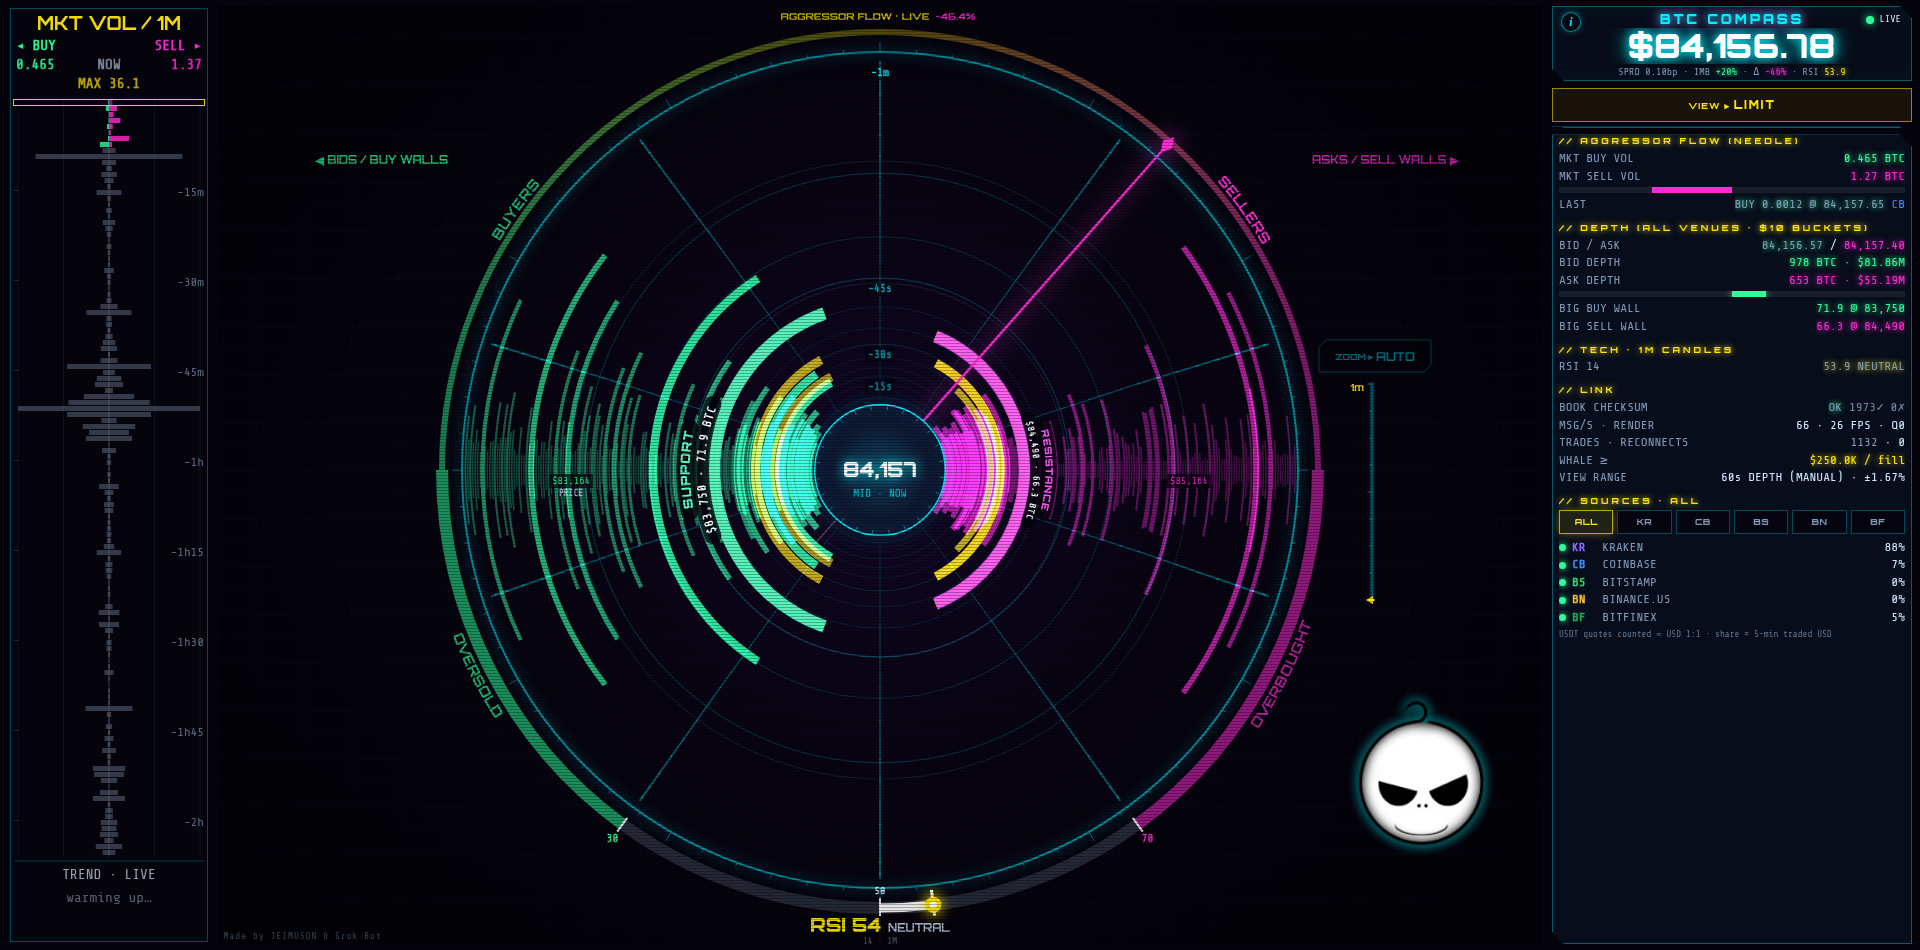
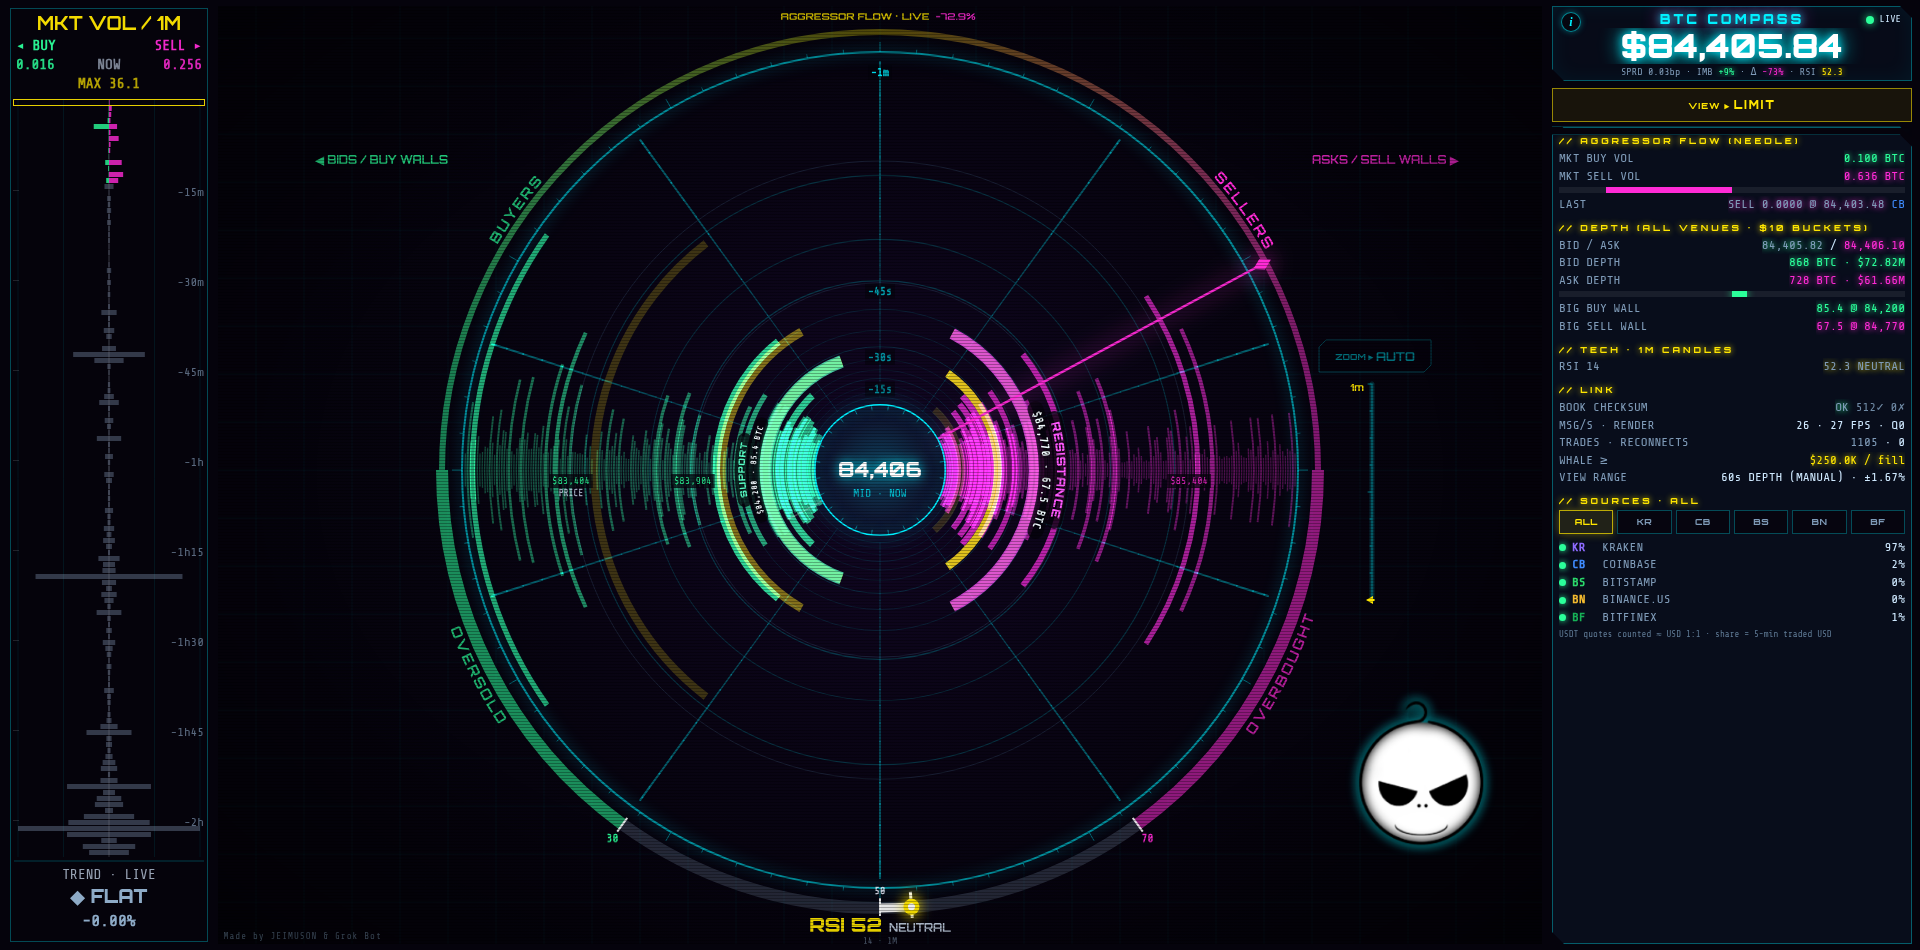
LIMIT: wall arc span scales vs shared history reference so eaten walls taper; labels scale/fade on short arcs (build 20261002-1635)

diff --git a/index.html b/index.html
@@ -3,7 +3,7 @@
 <head>
 <meta charset="utf-8">
 <meta http-equiv="Cache-Control" content="no-cache, no-store, must-revalidate"><meta http-equiv="Pragma" content="no-cache"><meta http-equiv="Expires" content="0">
-<script>window.OFC_BUILD='20261002-1552';(function(){try{if(!/^https?:/.test(location.protocol))return;fetch(location.pathname+'?_='+Date.now(),{cache:'no-store'}).then(r=>r.text()).then(t=>{const m=t.match(/OFC_BUILD='([^']+)'/);if(m&&m[1]!==window.OFC_BUILD&&sessionStorage.getItem('ofcB')!==m[1]){sessionStorage.setItem('ofcB',m[1]);location.replace(location.pathname+'?v='+m[1]+location.hash);}}).catch(()=>{});}catch(e){}})();</script>
+<script>window.OFC_BUILD='20261002-1635';(function(){try{if(!/^https?:/.test(location.protocol))return;fetch(location.pathname+'?_='+Date.now(),{cache:'no-store'}).then(r=>r.text()).then(t=>{const m=t.match(/OFC_BUILD='([^']+)'/);if(m&&m[1]!==window.OFC_BUILD&&sessionStorage.getItem('ofcB')!==m[1]){sessionStorage.setItem('ofcB',m[1]);location.replace(location.pathname+'?v='+m[1]+location.hash);}}).catch(()=>{});}catch(e){}})();</script>
 <meta name="viewport" content="width=device-width,initial-scale=1,viewport-fit=cover,user-scalable=no">
 <meta name="theme-color" content="#05030c">
 <meta name="color-scheme" content="dark">
@@ -290,6 +290,7 @@ setInterval(()=>{computeIndicators();const cut=Date.now()-800*60000;for(const k 
 // ---------------- state ----------------
 let pricePrec=5, qtyPrec=8;
 const book={bids:new Map(), asks:new Map(), ready:false};
+let EAT=null;   // test hook (simEat)
 let sortedB=[], sortedA=[];                 // COMBINED [[p,q]] bids desc, asks asc (all venues or the selected one)
 let kB=[], kA=[];                           // Kraken's own book (for its CRC32 checksum)
 let mid=0, dispMid=0, bestBid=0, bestAsk=0;
@@ -534,6 +535,7 @@ function combine(){
     for(const [p,q] of B.a){if(p>hi)continue;if(p>M&&p<ra)ra=p;const k=Math.ceil(p/BK)*BK;am.set(k,(am.get(k)||0)+q);}}
   // venues/USDT books can overlap slightly; buckets on the wrong side of the volume-weighted mid are dropped
   sortedB=[...bm.entries()].filter(x=>x[0]<M).sort((x,y)=>y[0]-x[0]);sortedA=[...am.entries()].filter(x=>x[0]>M).sort((x,y)=>x[0]-y[0]);
+  if(EAT&&sortedB.length>12){const u=Math.min(1,(Date.now()-EAT.t0)/EAT.ms);if(!EAT.px){let bd=1e9;for(const x of sortedB){const d=Math.abs(rOf(dispMid-x[0])-0.55*RMAX);if(d<bd){bd=d;EAT.px=x[0];}}EAT.q0=2*Math.max(...sortedB.map(x=>x[1]),...sortedA.map(x=>x[1]));}const e=sortedB.find(x=>x[0]===EAT.px);if(e)e[1]=EAT.q0*(1-0.9*u);}   // test hook: a bid wall being eaten
   if(sortedB.length>200)sortedB.length=200;if(sortedA.length>200)sortedA.length=200;
   if(!sortedB.length||!sortedA.length||!rb||ra===Infinity){BREADY=false;return;}
   bestBid=rb;bestAsk=ra;mid=simPx(one?(rb+ra)/2:M);if(!dispMid)dispMid=mid;BREADY=true;
@@ -905,11 +907,19 @@ function drawPriceRings(){
 
 // level arc: radius by price distance, angular half-width by size
 const MAXSPAN=1.2; // radians each way from the horizontal axis
-function levelSpan(q,maxq){return 0.03+MAXSPAN*Math.pow(q/maxq,0.55);}
+function levelSpan(q,maxq){return 0.03+MAXSPAN*Math.pow(Math.min(1,q/maxq),0.55);}
+// LIMIT span reference: biggest level across the visible history window (+ live book). Shared by every snapshot copy, so a wall
+// that is being eaten draws a shorter arc in each newer copy (tapers down the tunnel). Rises instantly, eases down over ~3 s.
+let REFQ=0,REFT=0;
+function updRefQ(now){let m=0;for(const h of history){const age=(now-h.t)/1000;if(age<=LWIN+1&&h.maxq>m)m=h.maxq;}
+  if(BREADY&&sortedB.length&&sortedA.length)for(const L of [sortedB,sortedA])for(const x of L)if(x[1]>m)m=x[1];
+  const dt=REFT?Math.min(0.2,(now-REFT)/1000):0;REFT=now;
+  REFQ=!REFQ||m>=REFQ?m:REFQ+(m-REFQ)*(1-Math.exp(-dt/3));}
 
 // LIMIT fade: newest (at the vanishing point) dim-but-visible, brighter as they rush toward you, fade out as they exit past the ring
 const limFade=(age,dz)=>Math.min(1,0.3+age/Math.min(5,LWIN/8))*(0.3+0.7*(1-dz/HIST_SEC))*Math.max(0,Math.min(1,(LWIN-age)/(LWIN*0.12)));
 function drawHistory(now){
+  updRefQ(now);
   ctx.save();ctx.beginPath();ctx.rect(0,0,W,H);ctx.arc(CX,CY,R0*1.02,0,Math.PI*2,true);ctx.clip();   // keep the hub readout clean over the newest datactx.globalCompositeOperation='lighter';
   const stepH=Q===2?1:Q===1?2:3;
   for(let hi=history.length-1-((history.length-1)%stepH);hi>=0;hi-=stepH){const h=history[hi];if(!h)continue;
@@ -918,7 +928,7 @@ function drawHistory(now){
     const sideDraw=(lv,side,c)=>{
       for(const [px,q] of lv){
         const r=rOf(px-dispMid)*p.s; if(r>RMAX*1.02*p.s)continue;
-        const sp=levelSpan(q,h.maxq), a0=baseAng(side);
+        const sp=levelSpan(q,REFQ||h.maxq), a0=baseAng(side);
         ctx.strokeStyle=rgba(c,0.05+0.32*fade*Math.pow(q/h.maxq,0.5));
         ctx.lineWidth=Math.max(0.6,(1+5*Math.pow(q/h.maxq,0.6))*p.s);
         ctx.beginPath();ctx.arc(p.x,p.y,r,a0-sp,a0+sp);ctx.stroke();
@@ -941,17 +951,18 @@ function drawKeyWalls(now,maxq){   // SUPPORT (bid) / RESISTANCE (ask): highligh
     const vis=lv.filter(([px])=>rOf(px-dispMid)<=RMAX*1.0),sig=sigWalls(vis,maxq);
     let key=null,ks=-1;for(const w of sig){const sc=w[1]*(1-0.45*Math.min(1,Math.abs(w[0]-dispMid)/span));if(sc>ks){ks=sc;key=w;}}
     KEYW[side]=key?{px:key[0],q:key[1]}:null;if(!key)continue;
-    const [px,q]=key,rel=q/maxq,r=rOf(px-dispMid),sp=levelSpan(q,maxq),a0=baseAng(side),lw=1.2+9*Math.pow(rel,0.6);
+    const [px,q]=key,rel=q/maxq,r=rOf(px-dispMid),sp=levelSpan(q,REFQ||maxq),a0=baseAng(side),lw=1.2+9*Math.pow(rel,0.6);
     const pl=0.85+0.15*Math.sin(now/650),cc=[Math.min(255,c[0]+45),Math.min(255,c[1]+45),Math.min(255,c[2]+45)];
     ctx.save();ctx.globalCompositeOperation='source-over';ctx.strokeStyle=rgba(cc,(0.95*pl).toFixed(3));ctx.lineWidth=lw+2.5;ctx.shadowColor=rgba(c,1);ctx.shadowBlur=Q>0?(LOW?16:28):0;
     ctx.beginPath();ctx.arc(CX,CY,r,a0-sp,a0+sp);ctx.stroke();ctx.restore();
     // text: centred on the angular midpoint of its own wall arc (a0), following the curve, upright (outward-facing); font shrinks with the arc, fades when too small
     const base1=WIDE?Math.round(Math.max(12,Math.min(16,RMAX/27))):10, sc=Math.max(0.62,Math.min(1,(r-R0)/(RMAX*0.28)));
-    const fs1=Math.max(7,Math.round(base1*sc)), fs2=Math.max(7,fs1-1), R1=r+lw/2+4, R2=R1+fs2+3;
-    const L1=`${PF(px)} · ${fmtQ(q)} ${UNIT}`,L2=side==='bid'?'SUPPORT':'RESISTANCE';
-    const F1=`700 ${fs2}px "Share Tech Mono",monospace`,F2=`900 ${fs1}px Orbitron,sans-serif`;
-    ctx.font=F1;const w1=ctx.measureText(L1).width/R1;ctx.font=F2;const w2=ctx.measureText(L2).width/R2,totM=Math.max(w1,w2);
-    let al=Math.max(0,Math.min(1,(r-R0*1.12)/(R0*0.45)))*Math.max(0,Math.min(1,(1.45-totM)/0.3));   // too close to the hub / too long for the arc -> fade
+    const L1=`${PF(px)} · ${fmtQ(q)} ${UNIT}`,L2=side==='bid'?'SUPPORT':'RESISTANCE', allow=Math.min(1.45,Math.max(0.55,2*sp+0.5));   // text may overhang a short arc a little
+    const lay=k=>{const fs1=Math.max(7,Math.round(base1*sc*k)),fs2=Math.max(7,fs1-1),R1=r+lw/2+4,R2=R1+fs2+3,F1=`700 ${fs2}px "Share Tech Mono",monospace`,F2=`900 ${fs1}px Orbitron,sans-serif`;
+      ctx.font=F1;const w1=ctx.measureText(L1).width/R1;ctx.font=F2;const w2=ctx.measureText(L2).width/R2;return {fs1,fs2,R1,R2,F1,F2,totM:Math.max(w1,w2)};};
+    let LY=lay(1);if(LY.totM>allow)LY=lay(Math.max(0.72,allow/LY.totM));   // short arc -> shrink the text (down to 72%) ...
+    const {fs1,fs2,R1,R2,F1,F2,totM}=LY;
+    let al=Math.max(0,Math.min(1,(r-R0*1.12)/(R0*0.45)))*Math.max(0,Math.min(1,(allow*1.35-totM)/(allow*0.35)));   // ... then fade if still too long / too close to the hub
     if(al<=0.03)continue;KLB[side]={r0:R1-3,r1:R2+fs1+3};
     ctx.save();ctx.globalAlpha=al;ctx.textAlign='center';ctx.textBaseline='alphabetic';
     for(const [txt,R,font,col,glow] of [[L1,R1,F1,'#f2fbff',0],[L2,R2,F2,rgba(cc,1),10]]){
@@ -973,7 +984,7 @@ function drawBook(now){
     // cumulative depth fill (wedge) for texture
     for(const [px,q] of lv){
       const r=rOf(px-dispMid); if(r>RMAX*1.02)continue;
-      const rel=q/maxq, sp=levelSpan(q,maxq), a0=baseAng(side), top=isTop(side,px);
+      const rel=q/maxq, sp=levelSpan(q,REFQ||maxq), a0=baseAng(side), top=isTop(side,px);
       const pulse=top?0.6+0.4*Math.sin(now/180+px*1e4):1;
       ctx.strokeStyle=rgba(top?COL.yl:c,(0.25+0.75*Math.pow(rel,0.5))*pulse);
       ctx.lineWidth=1.2+9*Math.pow(rel,0.6);
@@ -1612,7 +1623,7 @@ function frame(){
 connect();seedREST();
 requestAnimationFrame(frame);
 document.addEventListener('visibilitychange',()=>{if(!document.hidden&&(!ws||ws.readyState>1)){backoff=1000;connect();}});
-window.__ofc={get mt(){return {w:+MT.w.toFixed(1),q:+MT.q.toFixed(2),z:+MT.z.toFixed(2),sg:MT.sg,burst:burst.on}},get lt(){return {w:+LT.w.toFixed(1),rho:+LT.rho.toFixed(2),lwin:+LWIN.toFixed(1),burst:burst.on}},get keyWalls(){return VIEW==='limit'?{...KEYW,nSig:{bid:topWalls.bid.length,ask:topWalls.ask.length},marks:PLBL.map(q=>q.txt)}:null},simFlat(){SIM={on:true,base:mid,t0:0,dir:0,amp:0,ramp:1};},simMove(dir,frac,ramp){SIM.t0=Date.now();SIM.dir=dir;SIM.amp=frac*SIM.base;SIM.ramp=ramp;},get resp(){const v=proj(HIST_SEC),m=proj(HIST_SEC*0.4);return {tw:+(TWIST_MAX*VSP.w*180/Math.PI).toFixed(2),vp:+(v.y-CY).toFixed(1),vm:+(m.y-CY).toFixed(1),o3:+((window.__ofcR||{}).o3||0).toFixed(1),o8:+((window.__ofcR||{}).o8||0).toFixed(1),mw:+MWIN.toFixed(1),dr:dispRange,pr:pathRef}},get bp(){return BP.length},autoOff(){pillT=0;if(rangeAuto)pillTap();},get dr(){return dispRange},get hubLogo(){return !WIDE&&LOGO.complete&&LOGO.naturalWidth>0},get hdrLogo(){const e=document.querySelector('#top .logo');return !!e&&getComputedStyle(e).display!=='none'},get flares(){return VIEW==='market'?[...FLR.entries()].map(([k,F])=>{const p=F.dx!=null?{x:F.dx,y:F.dy}:null;return {k,T:F.T,tT:trailT,st:trailStep,w:+F.w.toFixed(2),on:!!F.on,side:F.c===COL.bid?'bid':'ask',x:p?Math.round(p.x):null,y:p?Math.round(p.y):null};}):null},winTo(S){intro=null;setAuto(false);syncZA();let lo=0,hi=1;const f=u=>mWinOf(zR(u));const dec=f(0)>f(1);for(let i=0;i<40;i++){const m=(lo+hi)/2;if((f(m)>S)===dec)lo=m;else hi=m;}rangeFrac=zR((lo+hi)/2);return f((lo+hi)/2);},get vring(){if(VIEW!=='market')return null;const p=proj(HIST_SEC);return {full:+(RMAX*p.s).toFixed(1),r:+(RMAX*p.s).toFixed(1),x:Math.round(p.x),y:Math.round(p.y),R0:Math.round(R0)}},get twist(){return VIEW==='market'?+(TWIST_MAX*VSP.w*180/Math.PI).toFixed(1):0},get spin(){return {w:+VSP.w.toFixed(3),ph:+VSP.ph.toFixed(3)}},zManual(){intro=null;setAuto(false);syncZA();},get burst(){return {...burst,now:Date.now()}},simBurst(usd){const px=trades.length?trades[trades.length-1].px:mid,n=Date.now();for(let k=0;k<8;k++)trades.push({t:n-(7-k)*300,side:k%2?'sell':'buy',qty:usd/8/px,px,v:'kraken'});trailDirty=true;},get auto(){return rangeAuto},zAuto(){intro=null;setAuto(true);syncZA();},zIn(){intro=null;setAuto(false);rangeFrac=zR(1);syncZA();},get mwin(){return +MWIN.toFixed(1)},get lwin(){return +LWIN.toFixed(1)},get prange(){return PRANGE},get disp(){return dispRange},get plbl(){return PLBL.map(q=>q.txt)},get hubTxt(){return mid?hubTxt():null},get head(){return {x:Math.round(TRHEAD.x),y:Math.round(TRHEAD.y),CX,CY,R0:Math.round(R0),RMAX:Math.round(RMAX)}},get logo(){const g=logoGeom();return g&&{x:Math.round(g.x),y:Math.round(g.y),S:g.S,CX,CY,RMAX,W,H,Z:zbarGeom()}},get ven(){return Object.fromEntries(Object.entries(VEN).map(([k,v])=>[k,{st:v.st,share:+v.share.toFixed(3),books:BOOKS.filter(B=>B.v===k).map(B=>({k:B.k,ready:B.ready,n:B.b.size+B.a.size,ck:B.ckOk,ckBad:B.ckBad,resyncs:B.resyncs}))}]))},get src(){return SRC},setSource,get comb(){return {ready:BREADY,mid,bestBid,bestAsk,nb:sortedB.length,na:sortedA.length}},get raw(){return RAW.length},get flow(){const f=flow(30);return {b:Math.round(f.b),s:Math.round(f.s),r:+f.r.toFixed(3)}},get trendW(){return trendWin()},get win(){return winSec},get heatN(){return Object.fromEntries(Object.entries(HEATS).map(([w,H])=>[w,H.m.size]))},get intro(){return intro},book,get mid(){return mid},get ck(){return {ckOk,ckBad,ckLast}},get trades(){return tradeCount},get bubbles(){return bubbles.length},get hist(){return history.length},get ind(){return ind},get candles(){return candles.size},get dir(){return INBOUND?'in':'out'},get view(){return VIEW},get layout(){return {W,H,CX,CY,RMAX,R0,WIDE}},get tunnel(){const far=proj(HIST_SEC);return {FOCAL,farScale:far.s,farY:far.y-CY,dispRange,fitFrac,rangeAuto,RMAX}},zoom(f){setAuto(false);rangeFrac=Math.min(0.08,Math.max(0.0005,rangeFrac*f));},autoZoom(){setAuto(true);},get autoOn(){return rangeAuto},get zgeom(){return zbarGeom()},get conn(){return connState},get fps(){return FPS},get q(){return Q},get rc(){return reconnects},forceDrop(){ws&&ws.close();}};
+window.__ofc={simEat(ms){EAT={t0:Date.now(),ms,px:0,q0:0};},get eat(){const n=performance.now();return EAT&&{px:EAT.px,q0:EAT.q0,ref:REFQ,cp:history.filter((h,i)=>i%8===0&&(n-h.t)/1000<=LWIN).map(h=>{const e=h.b.find(x=>x[0]===EAT.px);return e?[Math.round((n-h.t)/1000),+levelSpan(e[1],REFQ||h.maxq).toFixed(3)]:null;}).filter(Boolean)}},get mt(){return {w:+MT.w.toFixed(1),q:+MT.q.toFixed(2),z:+MT.z.toFixed(2),sg:MT.sg,burst:burst.on}},get lt(){return {w:+LT.w.toFixed(1),rho:+LT.rho.toFixed(2),lwin:+LWIN.toFixed(1),burst:burst.on}},get keyWalls(){return VIEW==='limit'?{...KEYW,nSig:{bid:topWalls.bid.length,ask:topWalls.ask.length},marks:PLBL.map(q=>q.txt)}:null},simFlat(){SIM={on:true,base:mid,t0:0,dir:0,amp:0,ramp:1};},simMove(dir,frac,ramp){SIM.t0=Date.now();SIM.dir=dir;SIM.amp=frac*SIM.base;SIM.ramp=ramp;},get resp(){const v=proj(HIST_SEC),m=proj(HIST_SEC*0.4);return {tw:+(TWIST_MAX*VSP.w*180/Math.PI).toFixed(2),vp:+(v.y-CY).toFixed(1),vm:+(m.y-CY).toFixed(1),o3:+((window.__ofcR||{}).o3||0).toFixed(1),o8:+((window.__ofcR||{}).o8||0).toFixed(1),mw:+MWIN.toFixed(1),dr:dispRange,pr:pathRef}},get bp(){return BP.length},autoOff(){pillT=0;if(rangeAuto)pillTap();},get dr(){return dispRange},get hubLogo(){return !WIDE&&LOGO.complete&&LOGO.naturalWidth>0},get hdrLogo(){const e=document.querySelector('#top .logo');return !!e&&getComputedStyle(e).display!=='none'},get flares(){return VIEW==='market'?[...FLR.entries()].map(([k,F])=>{const p=F.dx!=null?{x:F.dx,y:F.dy}:null;return {k,T:F.T,tT:trailT,st:trailStep,w:+F.w.toFixed(2),on:!!F.on,side:F.c===COL.bid?'bid':'ask',x:p?Math.round(p.x):null,y:p?Math.round(p.y):null};}):null},winTo(S){intro=null;setAuto(false);syncZA();let lo=0,hi=1;const f=u=>mWinOf(zR(u));const dec=f(0)>f(1);for(let i=0;i<40;i++){const m=(lo+hi)/2;if((f(m)>S)===dec)lo=m;else hi=m;}rangeFrac=zR((lo+hi)/2);return f((lo+hi)/2);},get vring(){if(VIEW!=='market')return null;const p=proj(HIST_SEC);return {full:+(RMAX*p.s).toFixed(1),r:+(RMAX*p.s).toFixed(1),x:Math.round(p.x),y:Math.round(p.y),R0:Math.round(R0)}},get twist(){return VIEW==='market'?+(TWIST_MAX*VSP.w*180/Math.PI).toFixed(1):0},get spin(){return {w:+VSP.w.toFixed(3),ph:+VSP.ph.toFixed(3)}},zManual(){intro=null;setAuto(false);syncZA();},get burst(){return {...burst,now:Date.now()}},simBurst(usd){const px=trades.length?trades[trades.length-1].px:mid,n=Date.now();for(let k=0;k<8;k++)trades.push({t:n-(7-k)*300,side:k%2?'sell':'buy',qty:usd/8/px,px,v:'kraken'});trailDirty=true;},get auto(){return rangeAuto},zAuto(){intro=null;setAuto(true);syncZA();},zIn(){intro=null;setAuto(false);rangeFrac=zR(1);syncZA();},get mwin(){return +MWIN.toFixed(1)},get lwin(){return +LWIN.toFixed(1)},get prange(){return PRANGE},get disp(){return dispRange},get plbl(){return PLBL.map(q=>q.txt)},get hubTxt(){return mid?hubTxt():null},get head(){return {x:Math.round(TRHEAD.x),y:Math.round(TRHEAD.y),CX,CY,R0:Math.round(R0),RMAX:Math.round(RMAX)}},get logo(){const g=logoGeom();return g&&{x:Math.round(g.x),y:Math.round(g.y),S:g.S,CX,CY,RMAX,W,H,Z:zbarGeom()}},get ven(){return Object.fromEntries(Object.entries(VEN).map(([k,v])=>[k,{st:v.st,share:+v.share.toFixed(3),books:BOOKS.filter(B=>B.v===k).map(B=>({k:B.k,ready:B.ready,n:B.b.size+B.a.size,ck:B.ckOk,ckBad:B.ckBad,resyncs:B.resyncs}))}]))},get src(){return SRC},setSource,get comb(){return {ready:BREADY,mid,bestBid,bestAsk,nb:sortedB.length,na:sortedA.length}},get raw(){return RAW.length},get flow(){const f=flow(30);return {b:Math.round(f.b),s:Math.round(f.s),r:+f.r.toFixed(3)}},get trendW(){return trendWin()},get win(){return winSec},get heatN(){return Object.fromEntries(Object.entries(HEATS).map(([w,H])=>[w,H.m.size]))},get intro(){return intro},book,get mid(){return mid},get ck(){return {ckOk,ckBad,ckLast}},get trades(){return tradeCount},get bubbles(){return bubbles.length},get hist(){return history.length},get ind(){return ind},get candles(){return candles.size},get dir(){return INBOUND?'in':'out'},get view(){return VIEW},get layout(){return {W,H,CX,CY,RMAX,R0,WIDE}},get tunnel(){const far=proj(HIST_SEC);return {FOCAL,farScale:far.s,farY:far.y-CY,dispRange,fitFrac,rangeAuto,RMAX}},zoom(f){setAuto(false);rangeFrac=Math.min(0.08,Math.max(0.0005,rangeFrac*f));},autoZoom(){setAuto(true);},get autoOn(){return rangeAuto},get zgeom(){return zbarGeom()},get conn(){return connState},get fps(){return FPS},get q(){return Q},get rc(){return reconnects},forceDrop(){ws&&ws.close();}};
 })();
 // ---------------- INFO overlay: what am I looking at? (✕ / tap outside / Esc) ----------------
 (function(){const I=document.getElementById('info'),B=document.getElementById('infoBtn');if(!I||!B)return;
